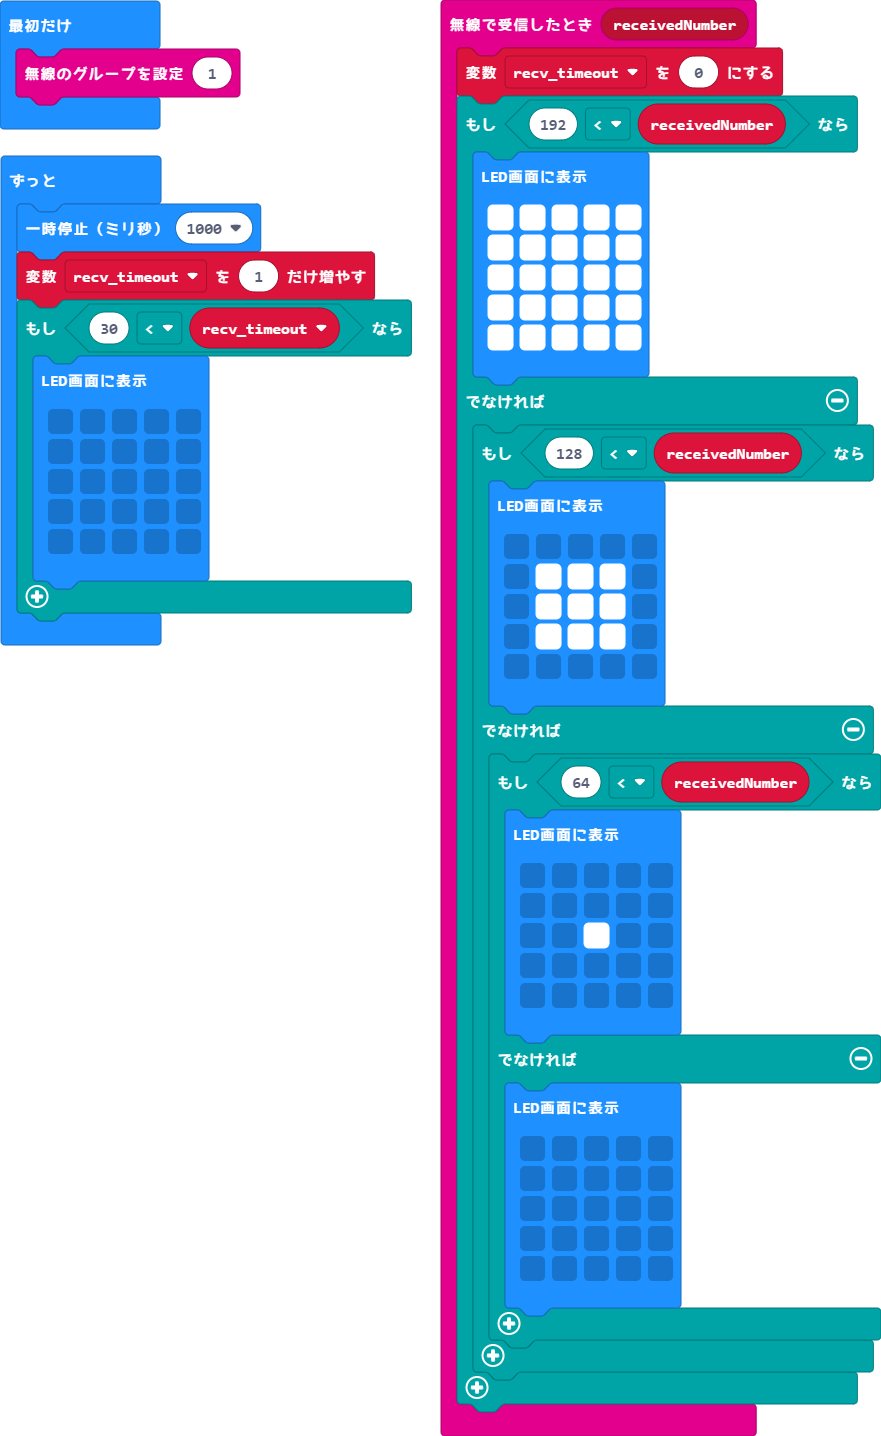
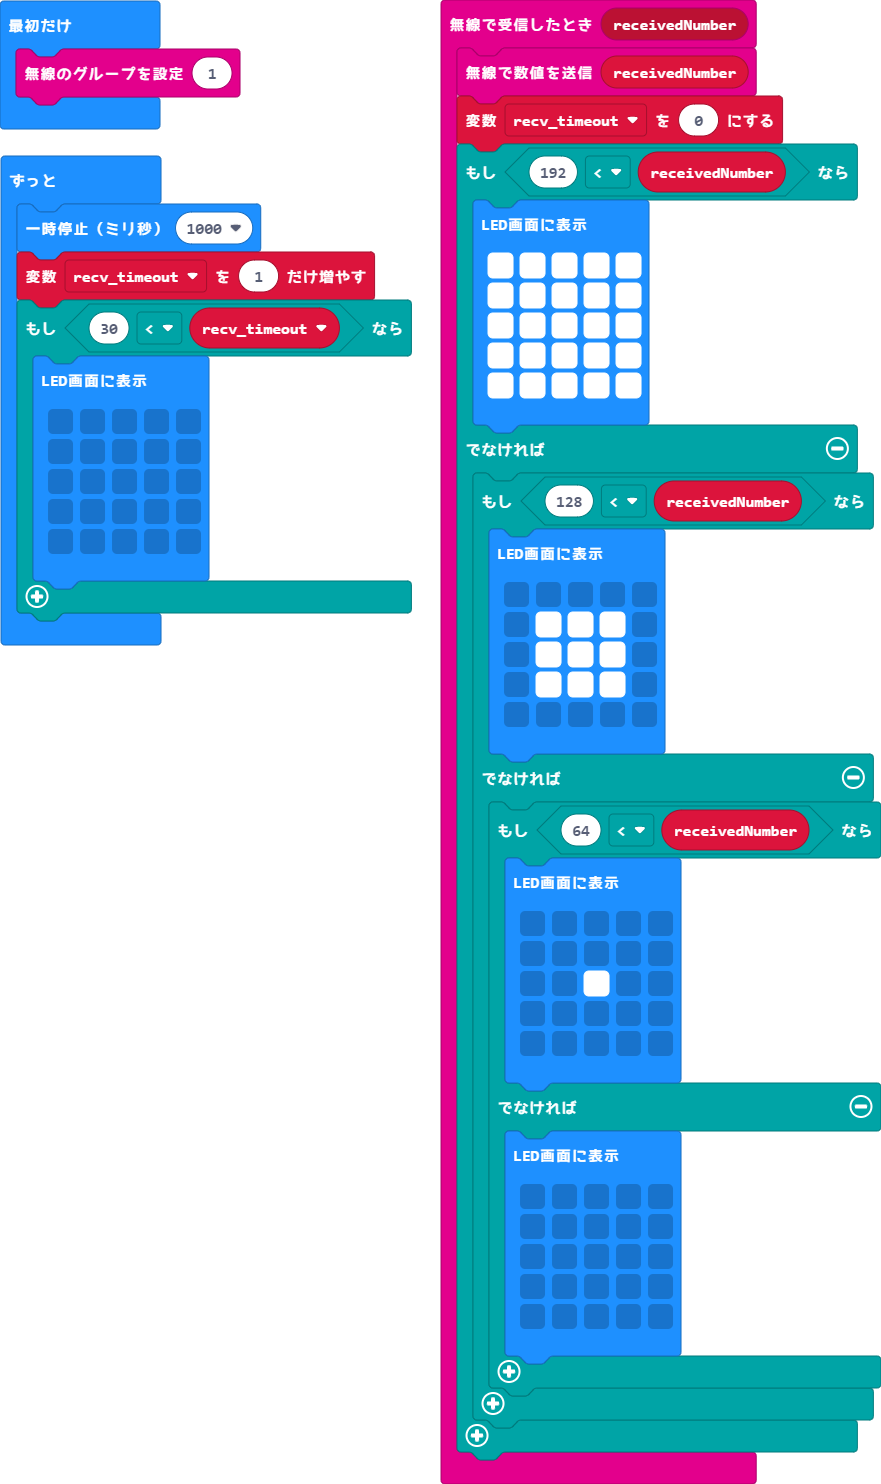
更新 main.blocks, main.ts

Changed region(s): [[0.4904, 0.0, 1.0, 0.9805], [0.0, 0.0, 0.4904, 0.4596]]

diff --git a/main.ts b/main.ts
@@ -1,4 +1,5 @@
 radio.onReceivedNumber(function (receivedNumber) {
+    radio.sendNumber(receivedNumber)
     recv_timeout = 0
     if (192 < receivedNumber) {
         basic.showLeds(`
